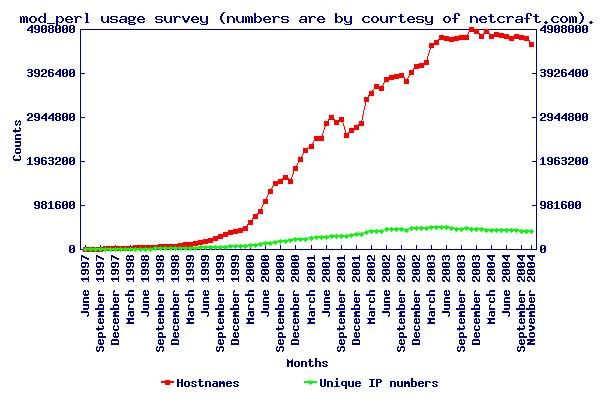
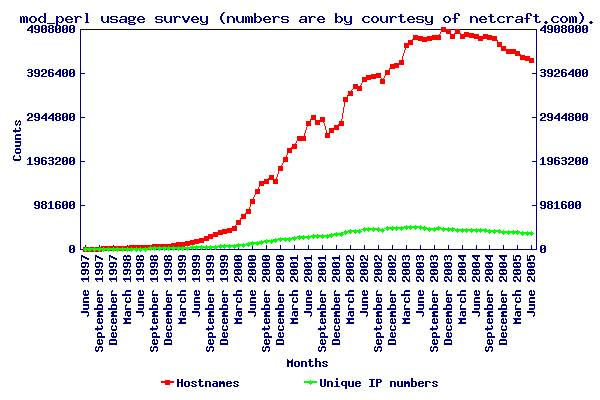
stats update for the last 6 months
git-svn-id: https://svn.apache.org/repos/asf/perl/modperl/docs/trunk@225484 13f79535-47bb-0310-9956-ffa450edef68

Changed region(s): [[0.15, 0.06, 0.9, 0.9]]

diff --git a/src/outstanding/stats/netcraft.html b/src/outstanding/stats/netcraft.html
@@ -24,13 +24,20 @@ survey.
 </p>
 
 <!-- monthly reports can be retrieved from
-http://www.netcraft.com/survey/Reports/0411/mod_perl.txt, adjust the
+http://www.netcraft.com/survey/Reports/0507/mod_perl.txt, adjust the
 year/month if needed. used to be
 http://www.netcraft.com/survey/Reports/200206/mod_perl.txt till July
 2002 -->
 
 <table cellpadding="3" border="1" cellspacing="0">
 <tr><th>Survey</th><th>Hostnames</th><th>Unique IP Addresses</th></tr>
+<tr><td> June 2005      </td><td>4208891</td><td>355845</td></tr>
+<tr><td> May 2005       </td><td>4271554</td><td>361500</td></tr>
+<tr><td> April 2005     </td><td>4280199</td><td>367110</td></tr>
+<tr><td> March 2005     </td><td>4366328</td><td>372162</td></tr>
+<tr><td> February 2005  </td><td>4408975</td><td>377475</td></tr>
+<tr><td> January 2005   </td><td>4417422</td><td>383667</td></tr>
+<tr><td> December 2004  </td><td>4478913</td><td>388092</td></tr>
 <tr><td> November 2004  </td><td>4567088</td><td>393757</td></tr>
 <tr><td> October 2004   </td><td>4697847</td><td>404247</td></tr>
 <tr><td> September 2004 </td><td>4735563</td><td>409956</td></tr>

diff --git a/src/outstanding/stats/securityspace.html b/src/outstanding/stats/securityspace.html
@@ -7,12 +7,12 @@
 <body bgcolor="#ffffff">
 
 <p> SecuritySpace provides an <a
-href="http://www.securityspace.com/s_survey/data/man.200411/apachemods.html?mod=cGVybA==">Apache
+href="http://www.securityspace.com/s_survey/data/man.200506/apachemods.html?mod=cGVybA==">Apache
 Module Report on mod_perl</a> comprising statistics and a graph based
 on the data collected by <a
 href="http://www.securityspace.com/">www.securityspace.com</a>. They
 also feature <a
-href="http://www.securityspace.com/s_survey/data/man.200411/apachemods.html">a
+href="http://www.securityspace.com/s_survey/data/man.200506/apachemods.html">a
 comparison</a> between all the Apache modules they survey.  </p>
 
 </body>
